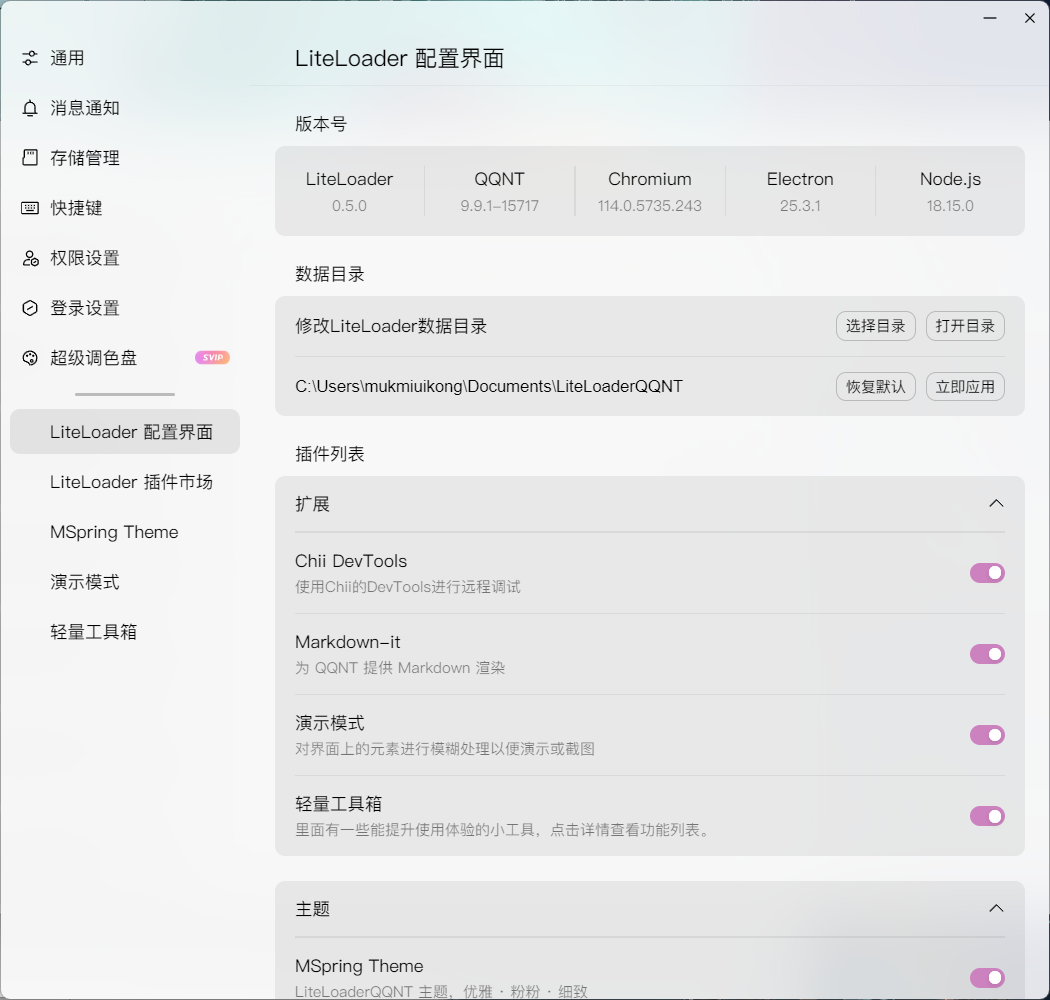
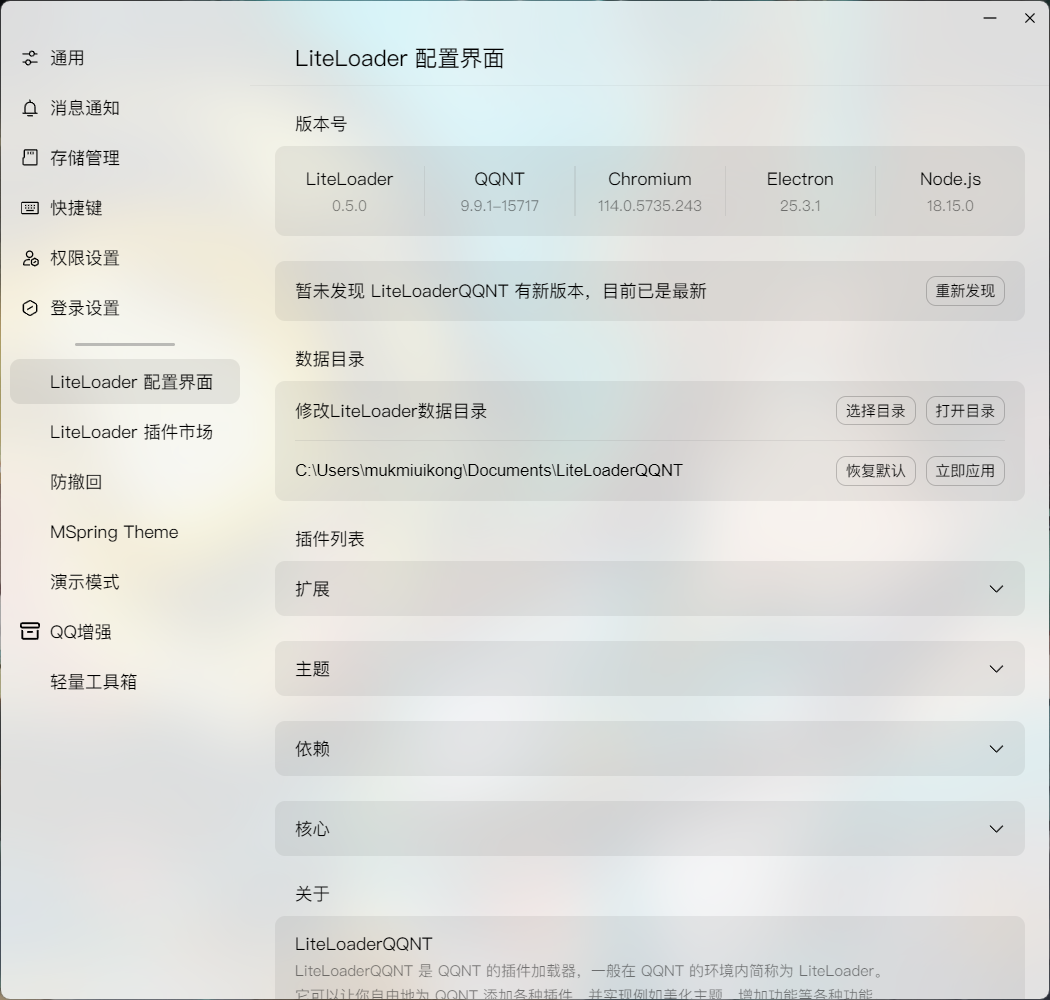
TG群修改为Telegram群；移除轻量工具箱插件；顶栏图标改为圆形； 名称统一LiteLoaderQQNT；更新截图

diff --git a/src/.vuepress/styles/index.scss b/src/.vuepress/styles/index.scss
@@ -1,4 +1,5 @@
 // place your custom styles here
-.vp-hero-image{
-    border-radius: 50%;
+.vp-hero-image,
+.vp-nav-logo {
+  border-radius: 50%;
 }

diff --git a/src/README.md b/src/README.md
@@ -14,19 +14,14 @@ actions:
   - text: 文档
     link: https://llqn.srap.link
 
-  - text: TG 群
+  - text: Telegram 群
     link: https://t.me/LiteLoaderQQNT
 
 highlights:
   - header: 为自己定制一个更好的 QQNT
-    description: LiteLoader 的队伍正在发展壮大，你也可以参与我们
+    description: LiteLoaderQQNT 的队伍正在发展壮大，你也可以参与我们
     image: /assets/image/customize.svg
     features:
-      - title: 轻量工具箱
-        icon: toolbox
-        details: 添加了一些能提升使用体验的功能
-        link: https://github.com/xiyuesaves/lite_tools
-
       - title: 防撤回插件
         icon: undo
         details: 用于简易的防撤回
